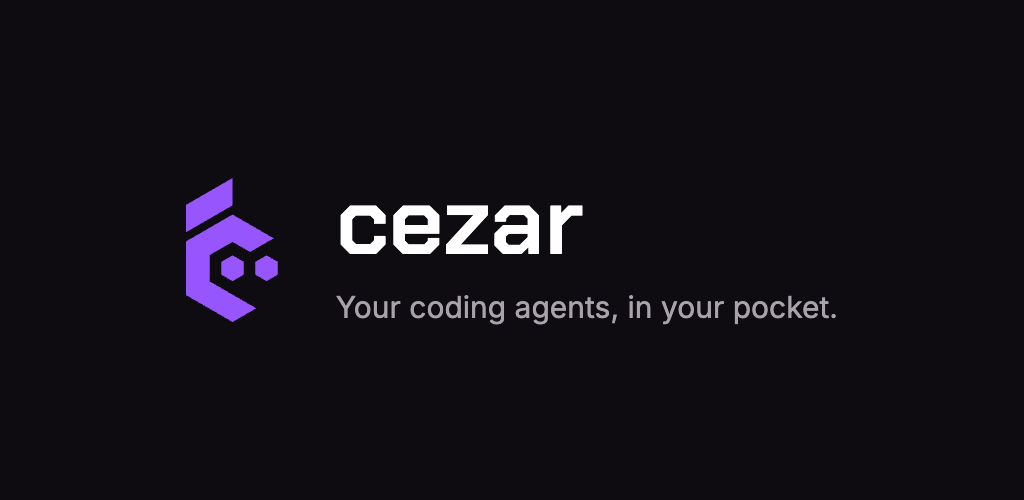
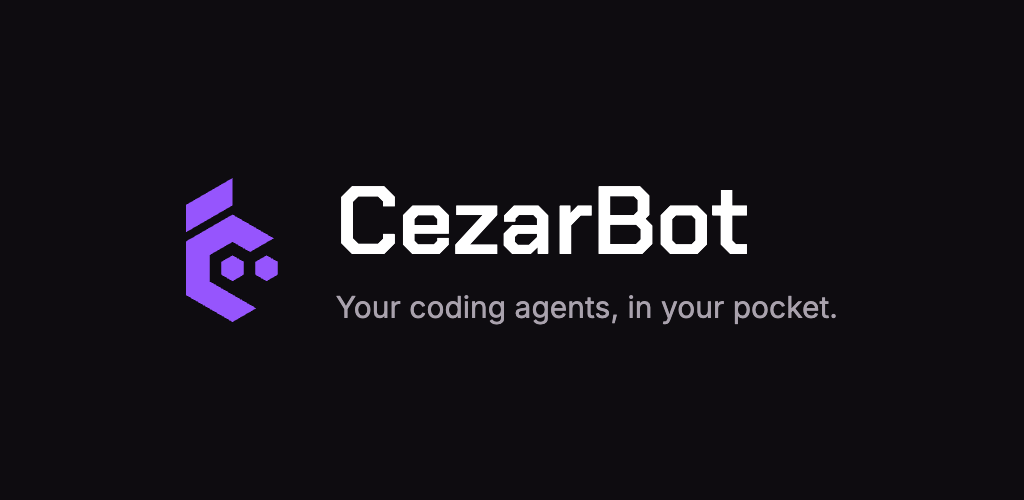
feat(mobile): name the phone app CezarBot
The home-screen label (CFBundleDisplayName, app_name), Capacitor appName,
the connect page title, store listing, reviewer notes, privacy policy and
RELEASING-MOBILE.md now say CezarBot. Bundle and application id
com.openmercato.cezar.mobile and SKU cezar-mobile are unchanged; cezar the
desktop product and the relay keep their names. The feature graphic is
re-rendered by store/scripts/screenshots.mjs.

Changed region(s): [[0.3125, 0.36, 0.75, 0.51]]

diff --git a/packages/mobile/store/privacy-policy.html b/packages/mobile/store/privacy-policy.html
@@ -3,7 +3,7 @@
 <head>
 <meta charset="utf-8">
 <meta name="viewport" content="width=device-width, initial-scale=1">
-<title>Cezar mobile app privacy policy</title>
+<title>CezarBot privacy policy</title>
 <style>
   :root { color-scheme: light dark; --fg: #111; --bg: #fff; --muted: #555; --line: #ddd; }
   @media (prefers-color-scheme: dark) { :root { --fg: #eee; --bg: #111; --muted: #aaa; --line: #333; } }
@@ -21,11 +21,11 @@
 <body>
 <main>
 <p class="banner">Draft: 12 highlighted fact(s) must be filled in before this page is published.</p>
-<h1 id="cezar-mobile-app-privacy-policy">Cezar mobile app privacy policy</h1>
+<h1 id="cezarbot-privacy-policy">CezarBot privacy policy</h1>
 <p>Effective date: <mark class="open">[OPEN MERCATO TO CONFIRM: effective date]</mark></p>
 <p>Who this policy is from: <mark class="open">[OPEN MERCATO TO CONFIRM: legal entity name, registered address and data controller, if any]</mark>. Contact: <mark class="open">[OPEN MERCATO TO CONFIRM: privacy contact address]</mark>.</p>
 <h2 id="what-this-policy-covers">What this policy covers</h2>
-<p>This policy covers the Cezar mobile app, the relay that connects the app to a computer, and push notifications.</p>
+<p>This policy covers CezarBot, the Cezar mobile app (called &quot;the app&quot; below), the relay that connects the app to a computer, and push notifications.</p>
 <p>The app is available for Android. An iOS version is not released yet, and this policy does not describe it. Before an iOS release this policy has to be checked again.</p>
 <p>The app is a small shell. It shows the Cezar cockpit from a Cezar server that you run or that someone runs for you. It connects in one of two ways:</p>
 <ul><li><strong>Through the relay</strong>, after you pair the phone with Cezar on your computer.</li><li><strong>Directly</strong>, when you enter the HTTPS address of a server that is reachable on the internet.</li></ul>

diff --git a/packages/mobile/demo/pair/index.html b/packages/mobile/demo/pair/index.html
@@ -4,21 +4,21 @@
     <meta charset="utf-8" />
     <meta name="viewport" content="width=device-width, initial-scale=1" />
     <meta name="robots" content="noindex, nofollow" />
-    <title>Pair the Cezar app with the demo</title>
+    <title>Pair CezarBot with the demo</title>
     <link rel="stylesheet" href="pair.css" />
     <script src="pair.js" defer></script>
   </head>
   <body>
     <main>
-      <h1>Pair the Cezar app with this demo</h1>
+      <h1>Pair CezarBot with this demo</h1>
       <p class="muted">
-        This demo runs cezar with a mock agent: nothing on it is real work. Pairing connects the app
+        This demo runs cezar with a mock agent: nothing on it is real work. Pairing connects CezarBot
         through the Cezar relay, the way a phone pairs with a cezar on a laptop.
       </p>
 
       <ol>
         <li>Press <strong>Show a code</strong> below.</li>
-        <li>In the Cezar app, choose <strong>Enter code</strong> and type the code. Codes last
+        <li>In CezarBot, choose <strong>Enter code</strong> and type the code. Codes last
           two minutes and work once.</li>
         <li>When the app shows a number, check that this page shows the same number, then press
           <strong>Approve</strong>.</li>

diff --git a/packages/mobile/connect/index.html b/packages/mobile/connect/index.html
@@ -4,7 +4,7 @@
     <meta charset="utf-8" />
     <meta name="viewport" content="width=device-width, initial-scale=1, viewport-fit=cover" />
     <meta http-equiv="Content-Security-Policy" content="default-src 'none'; script-src 'self'; style-src 'self'" />
-    <title>cezar</title>
+    <title>CezarBot</title>
     <link rel="stylesheet" href="connect.css" />
     <script type="module" src="connect.js"></script>
   </head>

diff --git a/packages/mobile/store/listing.md b/packages/mobile/store/listing.md
@@ -8,7 +8,7 @@ by `test/store.test.mjs`.
 
 | Field | Value |
 | --- | --- |
-| App name | `cezar` |
+| App name | `CezarBot` |
 | Category | Developer Tools (App Store: *Developer Tools*; Play: *Tools*) |
 | Price | Free, no in-app purchases, no ads |
 | Support URL | https://github.com/open-mercato/cezar/issues |
@@ -43,7 +43,7 @@ Pair your phone with cezar on your computer in seconds by scanning a QR code. Se
 **Keywords** (100 max, comma separated, no spaces after commas):
 
 <!-- ios-keywords -->
-coding agent,AI,developer,claude,codex,git,pull request,terminal,remote,orchestrator,devtools
+cezar,coding agent,AI,developer,claude,codex,git,pull request,terminal,remote,orchestrator,devtools
 <!-- /ios-keywords -->
 
 **Description** (4000 max): the shared full description below.
@@ -51,9 +51,9 @@ coding agent,AI,developer,claude,codex,git,pull request,terminal,remote,orchestr
 ## Full description (both stores)
 
 <!-- full-description -->
-cezar runs AI coding agents (Claude Code, Codex, OpenCode and others) in parallel on your own computer or server, each task in its own git worktree, and stops at a review gate before anything is merged. This app is cezar's companion for your phone.
+cezar runs AI coding agents (Claude Code, Codex, OpenCode and others) in parallel on your own computer or server, each task in its own git worktree, and stops at a review gate before anything is merged. CezarBot is cezar's companion for your phone.
 
-Open the app, and cezar's Manager tells you what needs you: a task waiting for a decision, a review that is ready, an agent that is stuck. Answer it, look at the changes, start a new task or check on a running one, all from the cockpit you already know, sized for a phone.
+Open CezarBot, and cezar's Manager tells you what needs you: a task waiting for a decision, a review that is ready, an agent that is stuck. Answer it, look at the changes, start a new task or check on a running one, all from the cockpit you already know, sized for a phone.
 
 PAIR IN SECONDS
 On your computer, open cezar, go to Settings, then Connect a phone, and scan the QR code. No account, no sign-up, no port forwarding. If you cannot use the camera, type the short code instead.
@@ -76,7 +76,7 @@ YOUR PHONE, YOUR RULES
 WHAT YOU NEED
 cezar running on a computer or server you control. cezar is free and open source (MIT): https://cezar.run
 
-The app does not run agents itself. It shows and controls the cezar you connect it to.
+CezarBot does not run agents itself. It shows and controls the cezar you connect it to.
 <!-- /full-description -->
 
 ## Release notes for the first version

diff --git a/RELEASING-MOBILE.md b/RELEASING-MOBILE.md
@@ -1,6 +1,6 @@
 # Releasing the mobile apps
 
-The exact steps to put the cezar app (`packages/mobile`) on Google Play and the App Store. Everything
+The exact steps to put CezarBot, the cezar phone app (`packages/mobile`), on Google Play and the App Store. Everything
 that can be built is in the repository; what is left needs an account, a secret or a decision that only
 the owner can make. Each step says where it is done.
 
@@ -68,7 +68,7 @@ Keep the `.jks` file and both passwords in the team password manager.
 
 ### 2.2 The app in Play Console
 
-1. **Create app**: name `cezar`, default language English (United States), App, Free. Accept the
+1. **Create app**: name `CezarBot`, default language English (United States), App, Free. Accept the
    declarations.
 2. **Policy and programs > App content**, every item:
    - Privacy policy: the URL from step 5.
@@ -87,7 +87,7 @@ Keep the `.jks` file and both passwords in the team password manager.
 1. In Google Cloud (https://console.cloud.google.com), pick or create a project, enable the **Google
    Play Android Developer API**, create a service account and add a JSON key. Download the JSON.
 2. In Play Console, **Users and permissions > Invite new users**: the service account's email. Under
-   **App permissions** add `cezar` with **Release to testing tracks** and **Manage testing track
+   **App permissions** add `CezarBot` with **Release to testing tracks** and **Manage testing track
    releases** (nothing else).
 
 ### 2.4 GitHub secrets
@@ -125,7 +125,7 @@ be updated by one. Say that wherever the APK is linked. Publish the draft GitHub
 1. **Identifier**: https://developer.apple.com/account/resources/identifiers > **+** > App IDs > App,
    explicit bundle ID `com.openmercato.cezar.mobile`, description `cezar`. Tick **Push Notifications**
    when iOS push lands.
-2. **App record**: App Store Connect > **Apps > + > New App**: iOS, name `cezar` (if taken, `cezar:
+2. **App record**: App Store Connect > **Apps > + > New App**: iOS, name `CezarBot` (if taken, `CezarBot:
    coding agents`), primary language English (U.S.), the bundle ID above, SKU `cezar-mobile`, full
    access.
 3. **API key**: App Store Connect > **Users and Access > Integrations > App Store Connect API > Team

diff --git a/packages/mobile/store/reviewer-notes.md b/packages/mobile/store/reviewer-notes.md
@@ -27,7 +27,7 @@ lands) or the demo runs with `DEMO_RELAY=0`.
 ```text
 WHAT THE APP IS
 cezar is a free, open-source tool that people run on their own computer or server to supervise AI
-coding agents. This app is its companion: it connects to the user's own cezar and shows that
+coding agents. CezarBot is its companion: it connects to the user's own cezar and shows that
 server's Manager and tasks, sized for a phone. The app has no account system and no server of ours
 that holds user data.
 
@@ -46,7 +46,7 @@ DEMO ACCESS
 We run a demo cezar for review. Its agents are simulated: nothing you do runs a real AI model or
 changes real code, and it resets every night at 03:00 UTC.
 
-1. Open the app. On "Connect to cezar", enter the server address (if the screen shows "Scan QR
+1. Open CezarBot. On "Connect to cezar", enter the server address (if the screen shows "Scan QR
    code" and "Enter code", open "Advanced" first):
    https://cezar-demo.example.com
 2. Tap Connect. When asked, enter the user name and password from the sign-in fields above.

diff --git a/packages/mobile/store/privacy-policy.md b/packages/mobile/store/privacy-policy.md
@@ -1,4 +1,4 @@
-# Cezar mobile app privacy policy
+# CezarBot privacy policy
 
 Effective date: [OPEN MERCATO TO CONFIRM: effective date]
 
@@ -7,7 +7,7 @@ controller, if any]. Contact: [OPEN MERCATO TO CONFIRM: privacy contact address]
 
 ## What this policy covers
 
-This policy covers the Cezar mobile app, the relay that connects the app to a computer, and push
+This policy covers CezarBot, the Cezar mobile app (called "the app" below), the relay that connects the app to a computer, and push
 notifications.
 
 The app is available for Android. An iOS version is not released yet, and this policy does not describe

diff --git a/packages/mobile/demo/README.md b/packages/mobile/demo/README.md
@@ -1,6 +1,6 @@
 # Store-review demo server
 
-A dry-run cezar on a small Ubuntu VPS. Apple and Google reviewers sign in to it from the Cezar app
+A dry-run cezar on a small Ubuntu VPS. Apple and Google reviewers sign in to it from the CezarBot app
 using only the text in the review notes. Agents are the bundled mock, so there are no model keys,
 no tokens and no real work. The box resets every night at 03:00 UTC. The design comes from
 `.ai/specs/2026-10-31-mobile-apps-manager-first.md` (§ App Store review, Q10: reviewers only,

diff --git a/packages/mobile/store/age-rating.md b/packages/mobile/store/age-rating.md
@@ -1,6 +1,6 @@
 # Age rating answers
 
-The app is a developer tool. It shows the cockpit of a cezar the user runs: tasks, code, diffs and the
+CezarBot is a developer tool. It shows the cockpit of a cezar the user runs: tasks, code, diffs and the
 Manager, an AI chat run by the user's own coding agents. Navigation is confined to the paired server's
 origin; any other link opens in the system browser (`NavigationPolicy`). No purchases, ads, gambling,
 location sharing or contact with strangers.

diff --git a/packages/mobile/store/data-safety.md b/packages/mobile/store/data-safety.md
@@ -1,4 +1,4 @@
-# Data safety (Google Play) and App Privacy (App Store)
+# Data safety (Google Play) and App Privacy (App Store) for CezarBot
 
 Answers from the code at the top of the mobile stack (#1901 on #1883), checked against the release
 APK's merged manifest (`aapt2 dump permissions`) on 2026-11-10. The longer reasoning, with a source for

diff --git a/packages/mobile/README.md b/packages/mobile/README.md
@@ -1,4 +1,4 @@
-# Cezar mobile shell
+# CezarBot, the cezar mobile shell
 
 A thin iOS and Android app that connects to a hosted cezar and shows that server's own cockpit.
 Design: `.ai/specs/2026-10-31-mobile-apps-manager-first.md`. Version 0.1.0. Release builds, signing
